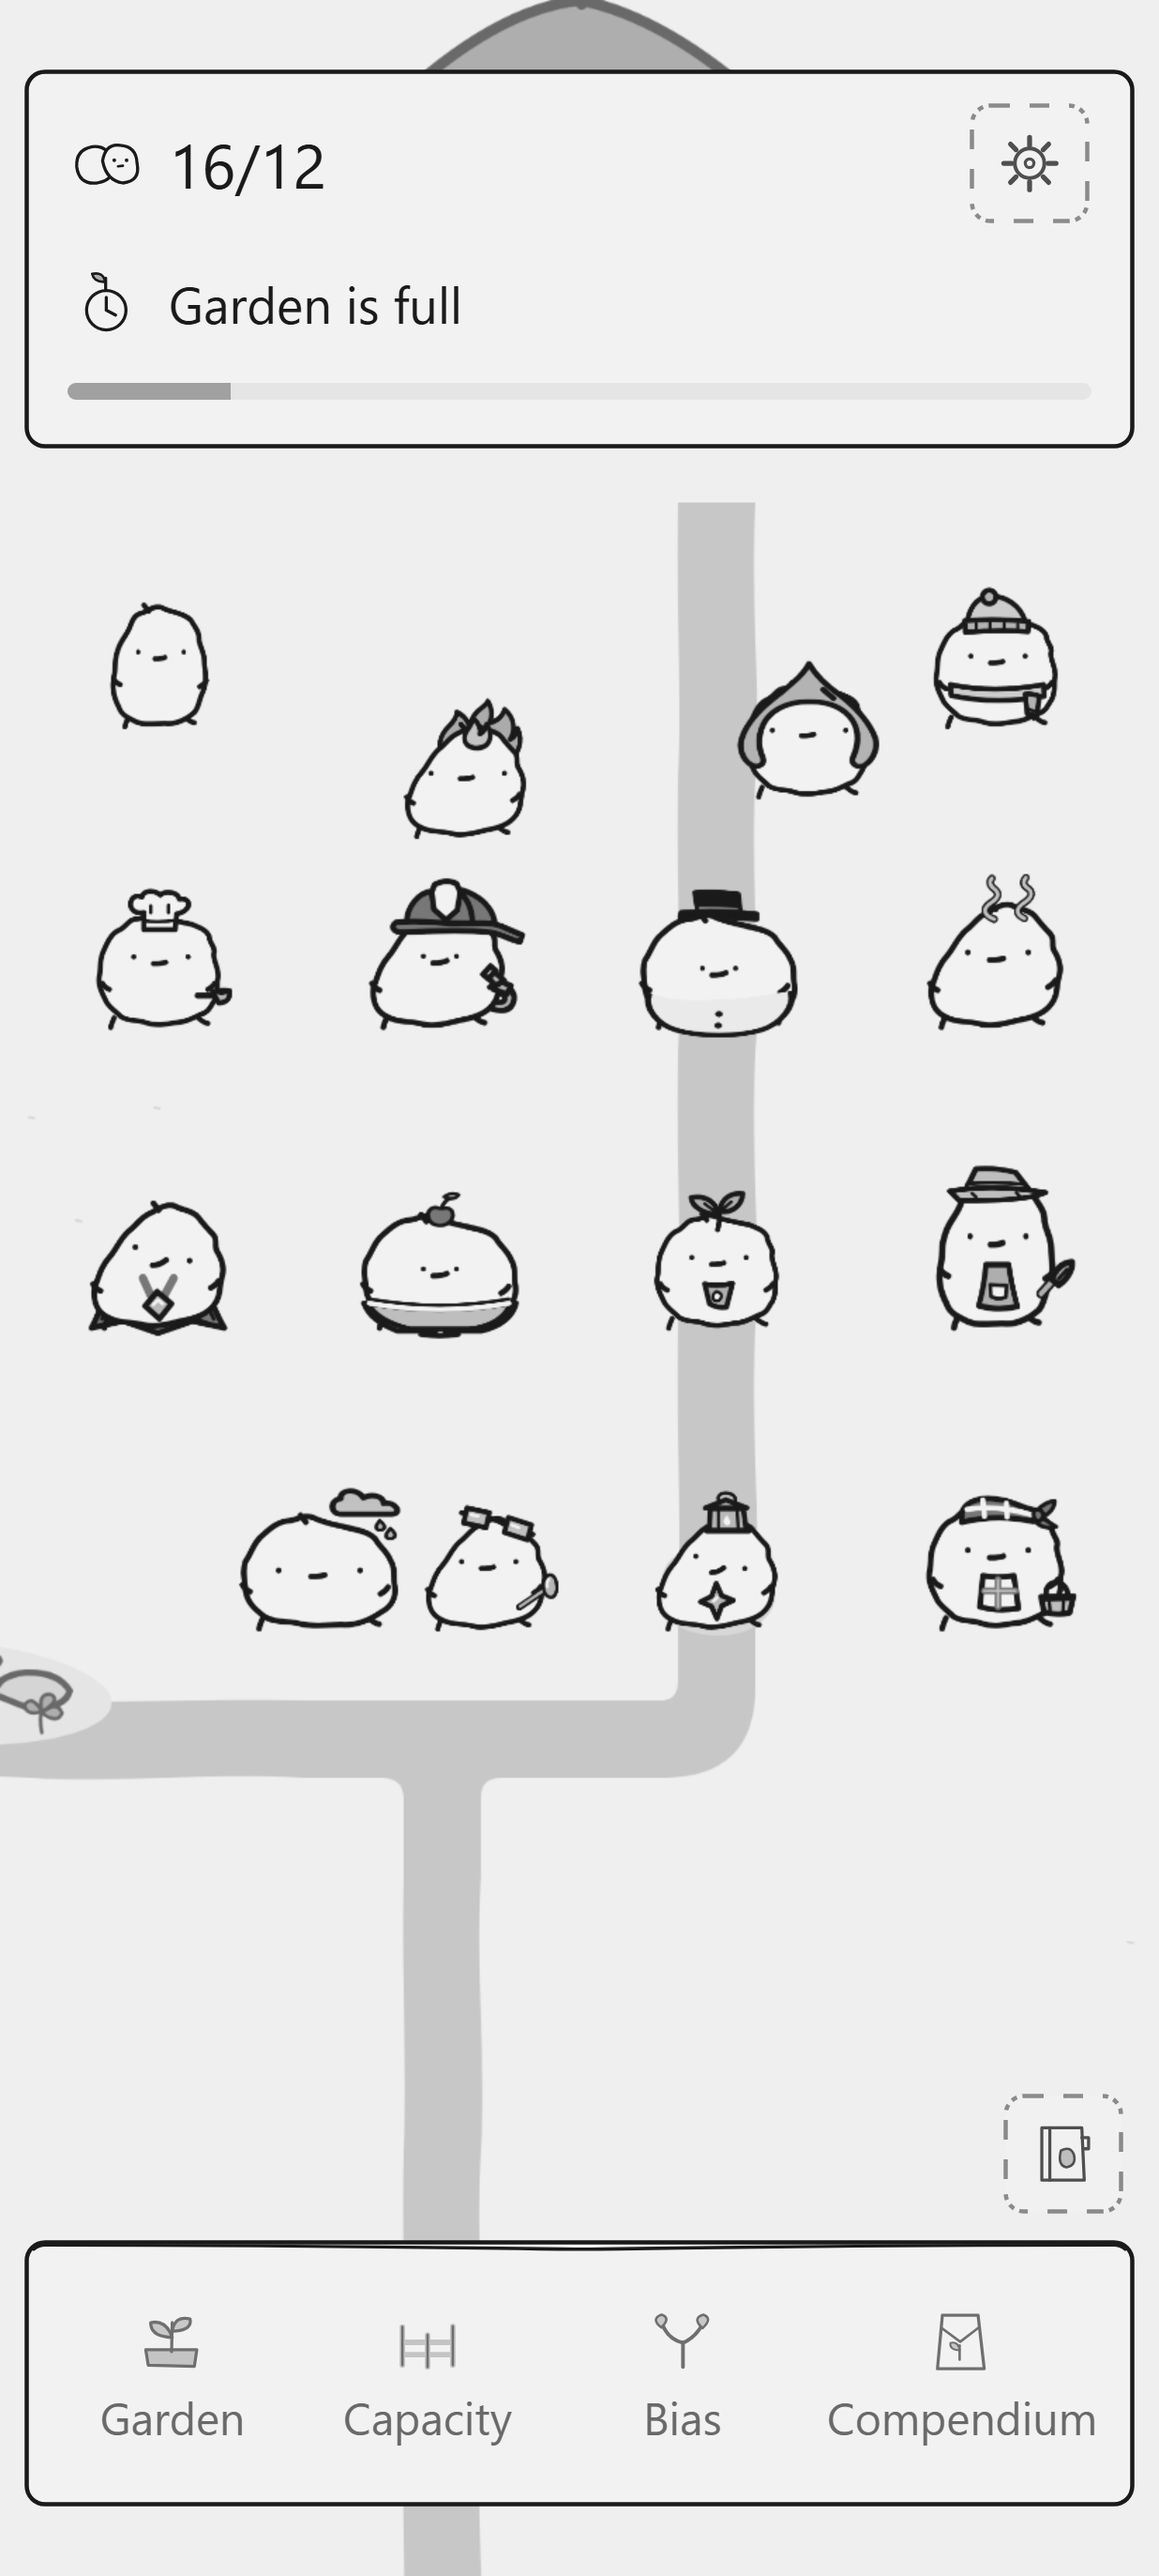
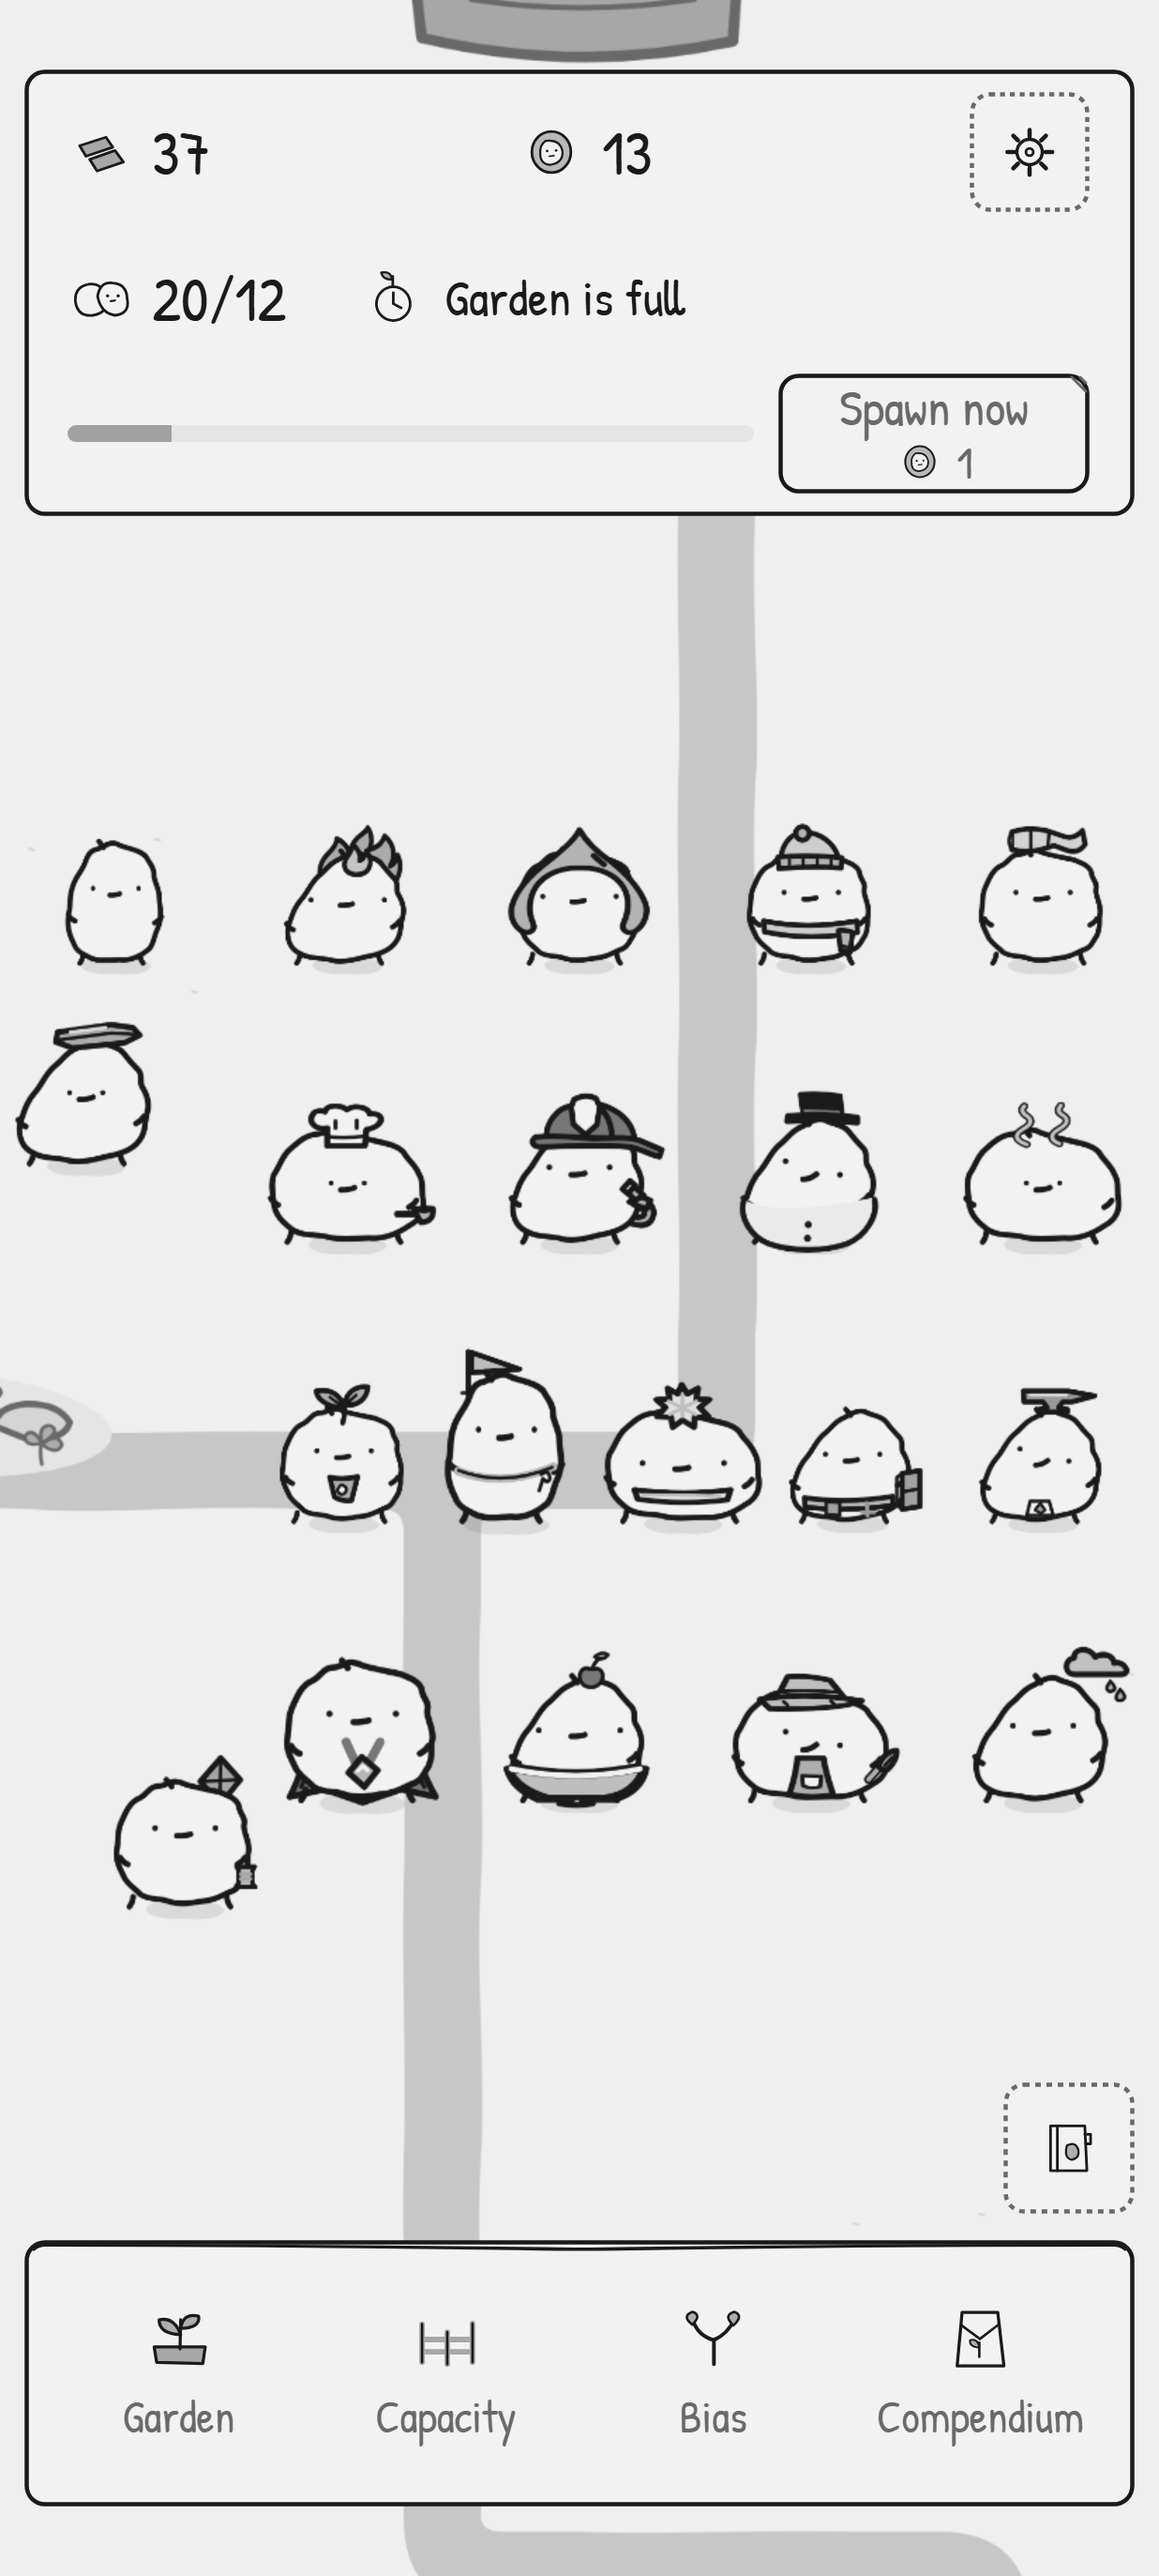
Import ASSET-MVP batch 1: 36 kids, 30 recipes, six-seed spawn pool
From docs/roster-mvp.json (ROSTER-PLAN #28), the subset whose art is
accepted (#34): all 16 existing kids plus the 20 new tier 1-3 kids, and
every recipe whose result is among them (self-contained: tier 1-3 recipes
use only tier 1-3 parents). Wind and Stone join the spawn pool with
Codex's provisional weights (plain 30, fire/water/snow 16, wind 12,
stone 10) until the balance simulator tunes them. Dex milestones extend
to 25 and 36 kids. The type preview pages 20 kids at a time, spaced so
recipe pairs never touch and fuse.

diff --git a/tests/preview/ingame.spec.ts b/tests/preview/ingame.spec.ts
@@ -11,18 +11,25 @@ async function open(browser: Browser, w: number, h: number, query: string) {
   return page;
 }
 
+// Kids are placed 216 apart (wider than any silhouette box + touch slack) so recipe pairs
+// never touch and fuse; 20 per page in a 5 x 4 grid below the HUD; more pages as the roster grows.
+const PAGE = 20;
+const pages = Array.from({ length: Math.ceil(types.length / PAGE) }, (_, p) => types.slice(p * PAGE, (p + 1) * PAGE));
 for (const [name, w, h] of [['20x9', 412, 915], ['16x9', 360, 640]] as const) {
-  test(`every type, ${name}, colour and grayscale`, async ({ browser }) => {
-    const page = await open(browser, w, h, '?seed=31&debug=1&calm=1');
-    await page.evaluate((ids) => {
-      window.__PK__!.centerOn(1080, 1500);
-      ids.forEach((t, i) => window.__PK__!.debugAdd!(t, 690 + (i % 4) * 260, 980 + Math.floor(i / 4) * 280));
-    }, types);
-    await page.waitForTimeout(1200);
-    await page.screenshot({ path: `${OUT}/types-${name}.png` });
-    await page.addStyleTag({ content: 'html{filter:grayscale(1)}' });
-    await page.waitForTimeout(150);
-    await page.screenshot({ path: `${OUT}/types-${name}-gray.png` });
+  pages.forEach((ids, p) => {
+    const suffix = p === 0 ? '' : `-${p + 1}`;
+    test(`every type, ${name}, page ${p + 1}, colour and grayscale`, async ({ browser }) => {
+      const page = await open(browser, w, h, '?seed=31&debug=1&calm=1');
+      await page.evaluate((list) => {
+        window.__PK__!.centerOn(1080, 1750);
+        list.forEach((t, i) => window.__PK__!.debugAdd!(t, 648 + (i % 5) * 216, 1450 + Math.floor(i / 5) * 260));
+      }, ids);
+      await page.waitForTimeout(1200);
+      await page.screenshot({ path: `${OUT}/types-${name}${suffix}.png` });
+      await page.addStyleTag({ content: 'html{filter:grayscale(1)}' });
+      await page.waitForTimeout(150);
+      await page.screenshot({ path: `${OUT}/types-${name}${suffix}-gray.png` });
+    });
   });
 }
 

diff --git a/src/sim/game.test.ts b/src/sim/game.test.ts
@@ -183,7 +183,7 @@ describe('spawning', () => {
     const roomy = { minX: 0, minY: 0, maxX: 4000, maxY: 4000 };
     const game = new Game(testContent({ intervalSeconds: 1, capacity: 500 }), { bounds: roomy, spawnAt: garden }, 9);
     const types = new Set(run(game, 200).flatMap((e) => (e.type === 'spawned' ? [e.kid.type] : [])));
-    expect([...types].sort()).toEqual(['fire', 'plain', 'snow', 'water']);
+    expect([...types].sort()).toEqual(Object.keys(content.balance.spawnWeights).sort());
   });
 
   it('is deterministic for a seed', () => {
